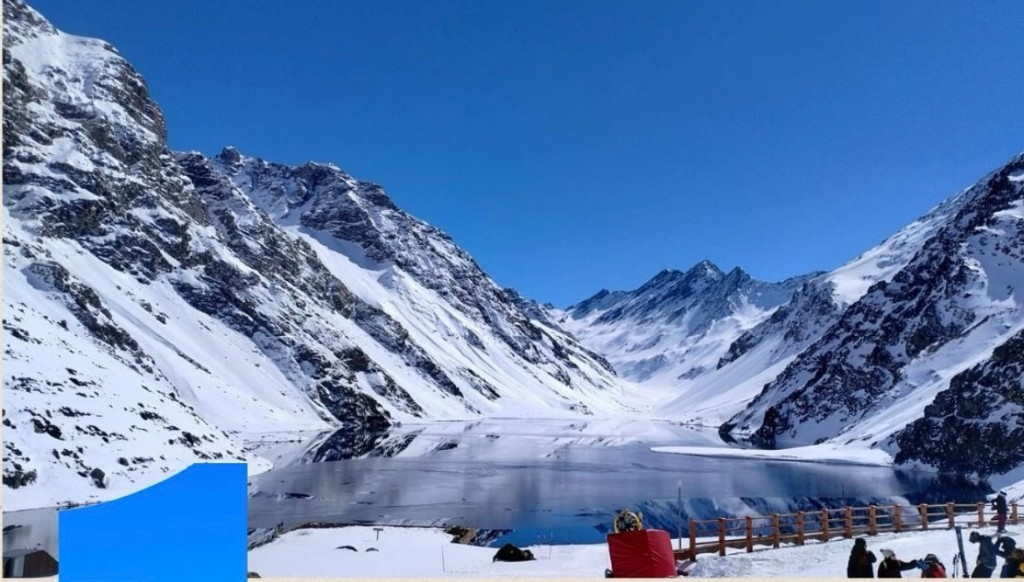
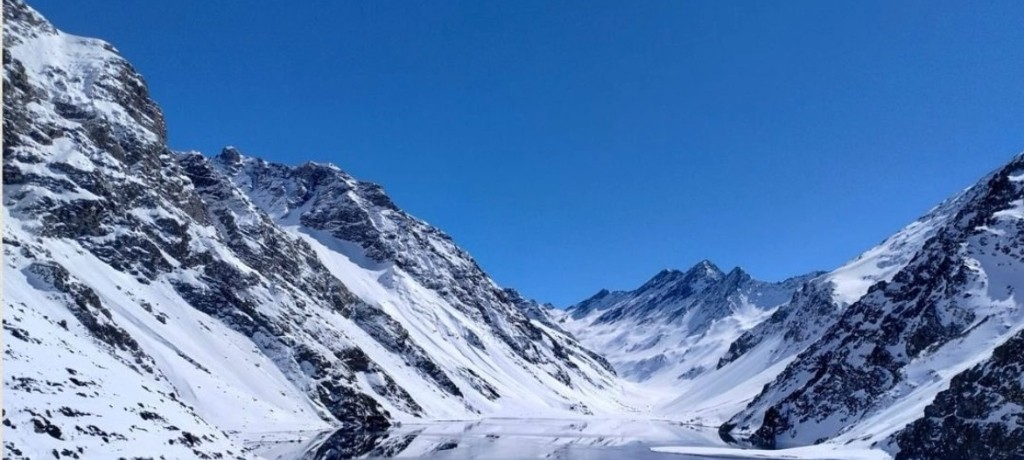
fix: ajustar responsividade da imagem de fundo do Hero e posicionar selo institucional apos avaliacao do Google

diff --git a/css/style.css b/css/style.css
@@ -300,11 +300,12 @@ button, input, textarea, select {
    -------------------------------------------------------------------------- */
 .hero-cinematic {
   position: relative;
-  min-height: 95vh;
+  min-height: clamp(520px, 82vh, 760px);
   display: flex;
   align-items: flex-end;
-  padding: 9rem 0 5.5rem 0;
+  padding: 8rem 0 4.5rem 0;
   overflow: hidden;
+  background-color: var(--bg-primary);
 }
 
 .hero-cinematic-bg {
@@ -314,24 +315,19 @@ button, input, textarea, select {
   width: 100%;
   height: 100%;
   z-index: 0;
+  overflow: hidden;
 }
 
 .hero-cinematic-img {
   width: 100%;
   height: 100%;
   object-fit: cover;
-  object-position: center 35%;
-  transform: scale(1.04);
-  animation: heroKenBurnsSlow 26s ease-in-out infinite alternate;
-  will-change: transform;
+  object-position: center 25%;
+  transform: scale(1.01);
+  transition: transform 0.5s ease, opacity var(--transition-smooth);
 }
 
-@keyframes heroKenBurnsSlow {
-  0% { transform: scale(1.04) translate3d(0, 0, 0); }
-  100% { transform: scale(1.10) translate3d(-1%, -1%, 0); }
-}
-
-/* Scrim / Degradê Fotográfico Fino */
+/* Scrim / Degradê Fotográfico Fino que Preserva a Imagem */
 .hero-cinematic-scrim {
   position: absolute;
   top: 0;
@@ -340,10 +336,10 @@ button, input, textarea, select {
   height: 100%;
   background: linear-gradient(
     180deg,
-    rgba(11, 15, 23, 0.45) 0%,
-    rgba(11, 15, 23, 0.25) 35%,
-    rgba(11, 15, 23, 0.75) 75%,
-    rgba(11, 15, 23, 0.98) 100%
+    rgba(11, 15, 23, 0.42) 0%,
+    rgba(11, 15, 23, 0.18) 35%,
+    rgba(11, 15, 23, 0.65) 70%,
+    rgba(11, 15, 23, 0.94) 100%
   );
 }
 
@@ -355,23 +351,6 @@ button, input, textarea, select {
 
 .hero-cinematic-content {
   max-width: 820px;
-}
-
-.hero-editorial-badge {
-  display: inline-flex;
-  align-items: center;
-  gap: 0.65rem;
-  font-size: 0.75rem;
-  font-weight: 700;
-  text-transform: uppercase;
-  letter-spacing: 0.18em;
-  color: var(--accent-gold);
-  margin-bottom: 1.5rem;
-  padding: 0.4rem 0.9rem;
-  border-radius: 999px;
-  background: rgba(11, 15, 23, 0.6);
-  backdrop-filter: blur(8px);
-  border: 1px solid var(--accent-gold-border);
 }
 
 .label-dot {
@@ -496,14 +475,44 @@ button, input, textarea, select {
   border-bottom-color: var(--accent-gold-hover);
 }
 
-/* Prova Social Discreta no Hero */
+/* Prova Social & Credencial Oficial no Hero (Depois da Nota do Google) */
+.hero-proof-credentials {
+  display: flex;
+  align-items: center;
+  gap: 1.25rem;
+  flex-wrap: wrap;
+}
+
 .hero-discreet-proof {
   display: flex;
   align-items: center;
-  gap: 0.75rem;
+  gap: 0.65rem;
   font-size: 0.8125rem;
   color: var(--text-light-dim);
   letter-spacing: 0.02em;
+}
+
+.hero-agency-badge {
+  display: inline-flex;
+  align-items: center;
+  gap: 0.5rem;
+  font-size: 0.75rem;
+  font-weight: 600;
+  color: var(--accent-gold);
+  padding: 0.35rem 0.9rem;
+  border-radius: 999px;
+  background: rgba(11, 15, 23, 0.72);
+  backdrop-filter: blur(8px);
+  -webkit-backdrop-filter: blur(8px);
+  border: 1px solid var(--accent-gold-border);
+}
+
+.hero-agency-badge .label-dot {
+  width: 6px;
+  height: 6px;
+  border-radius: 50%;
+  background: var(--accent-gold);
+  flex-shrink: 0;
 }
 
 .stars-gold {
@@ -1857,8 +1866,42 @@ button, input, textarea, select {
     gap: 1.5rem;
   }
   .hero-cinematic {
-    padding: 7rem 0 4rem 0;
-    min-height: 88vh;
+    padding: 6.5rem 0 3rem 0;
+    min-height: clamp(480px, 80vh, 620px);
+  }
+  .hero-cinematic-img {
+    object-position: center 15%;
+    transform: none !important;
+    animation: none !important;
+  }
+  .hero-cinematic-title {
+    font-size: clamp(1.95rem, 7.5vw, 2.5rem);
+    line-height: 1.15;
+    margin-bottom: 1.25rem;
+  }
+  .hero-cinematic-lead {
+    font-size: 0.98rem;
+    line-height: 1.6;
+    margin-bottom: 1.75rem;
+  }
+  .hero-cinematic-actions {
+    flex-direction: column;
+    align-items: stretch;
+    width: 100%;
+    gap: 0.75rem;
+    margin-bottom: 1.75rem;
+  }
+  .hero-cinematic-actions .btn-editorial-primary {
+    width: 100%;
+    justify-content: center;
+  }
+  .hero-proof-credentials {
+    flex-direction: column;
+    align-items: flex-start;
+    gap: 0.75rem;
+  }
+  .hero-scroll-cue {
+    display: none;
   }
   .cover-story-media {
     height: 280px;
@@ -1887,5 +1930,18 @@ button, input, textarea, select {
     flex-direction: column;
     align-items: flex-start;
     gap: 0.5rem;
+  }
+}
+
+@media (max-width: 480px) {
+  .hero-cinematic {
+    padding: 5.5rem 0 2.25rem 0;
+    min-height: 520px;
+  }
+  .hero-cinematic-img {
+    object-position: center 10%;
+  }
+  .hero-cinematic-title {
+    font-size: 1.85rem;
   }
 }

diff --git a/index.html b/index.html
@@ -88,30 +88,31 @@
 
       <div class="container hero-cinematic-inner">
         <div class="hero-cinematic-content">
-          <div class="hero-editorial-label hero-load-anim hero-load-delay-1">
-            <span class="label-dot"></span>
-            <span id="hero-badge-text">TR TURISMO • IBIRITÉ, MINAS GERAIS</span>
-          </div>
-
-          <h1 class="hero-cinematic-title hero-load-anim hero-load-delay-2" id="hero-title-text">
+          <h1 class="hero-cinematic-title hero-load-anim hero-load-delay-1" id="hero-title-text">
             A arte de descobrir o mundo com quem cuida de cada detalhe.
           </h1>
 
-          <p class="hero-cinematic-lead hero-load-anim hero-load-delay-3" id="hero-subtitle-text">
+          <p class="hero-cinematic-lead hero-load-anim hero-load-delay-2" id="hero-subtitle-text">
             Excursões rodoviárias e viagens aéreas desenhadas para você viver o extraordinário com calma, afeto e a segurança de quem conhece a estrada.
           </p>
 
-          <div class="hero-cinematic-actions hero-load-anim hero-load-delay-4">
+          <div class="hero-cinematic-actions hero-load-anim hero-load-delay-3">
             <a href="#destinos" class="btn-editorial-primary" id="hero-cta-primary">
               EXPLORAR PRÓXIMAS VIAGENS
               <svg width="15" height="15" viewBox="0 0 24 24" fill="none" stroke="currentColor" stroke-width="2"><path d="M7 17l9.2-9.2M17 17V8H8"/></svg>
             </a>
           </div>
 
-          <!-- Prova Social Discreta (Sutil e sem dominar o Hero) -->
-          <div class="hero-discreet-proof hero-load-anim hero-load-delay-4">
-            <span class="stars-gold">★★★★★</span>
-            <span>4.9 no Google • +100 avaliações de passageiros reais</span>
+          <!-- Prova Social do Google e Credencial da Agência (Depois da Nota) -->
+          <div class="hero-proof-credentials hero-load-anim hero-load-delay-4">
+            <div class="hero-discreet-proof">
+              <span class="stars-gold">★★★★★</span>
+              <span>4.9 no Google • +100 avaliações de passageiros reais</span>
+            </div>
+            <div class="hero-agency-badge">
+              <span class="label-dot"></span>
+              <span id="hero-badge-text">Agência Oficial em Ibirité • CNPJ 62.424.112/0001-27</span>
+            </div>
           </div>
         </div>
       </div>
